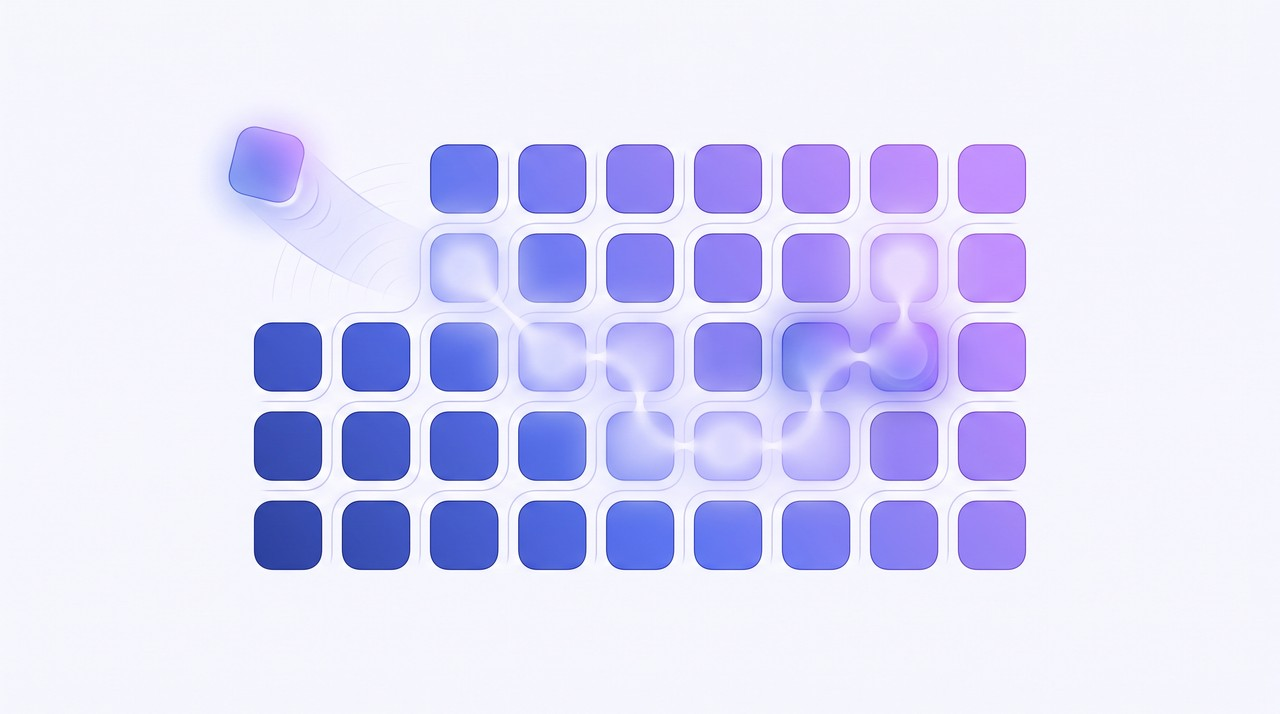
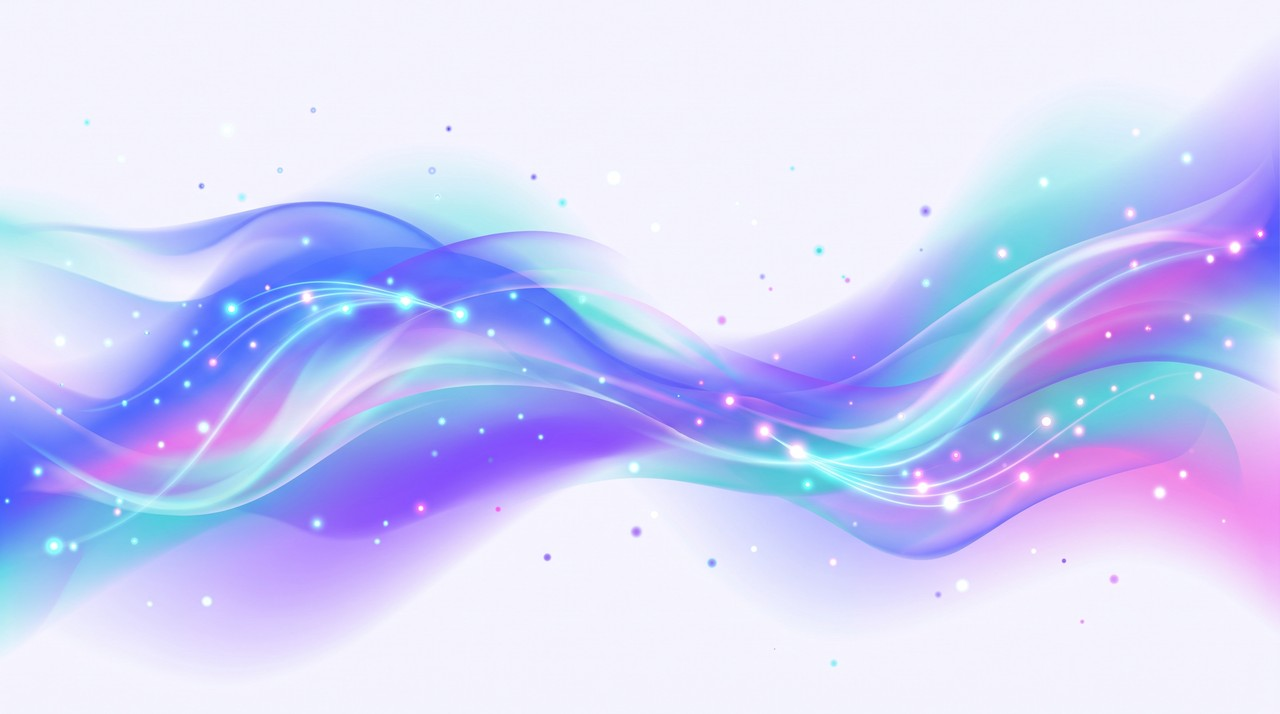
about: regenerate module illustrations — more abstract, richer multi-hue palette
Re-render the three module images as flowing aurora/liquid-light gradients
(blue/violet + cyan-teal + magenta-pink) instead of literal card/grid schematics,
per feedback that they were too literal and monochrome. Cache-bust img src v2.

diff --git a/about.html b/about.html
@@ -68,7 +68,7 @@
   <section class="section" style="padding-top:0">
     <div class="container">
       <div class="module-split">
-        <div class="module-diagram"><img src="assets/mod_director.jpg" alt="Director orchestrating a dynamic task stack in a self-correcting loop" loading="lazy" /></div>
+        <div class="module-diagram"><img src="assets/mod_director.jpg?v=2" alt="Director orchestrating a dynamic task stack in a self-correcting loop" loading="lazy" /></div>
       <div class="section-head">
         <div class="eyebrow" style="margin-bottom:12px">Module 1 · Planning</div>
         <h2 class="section-title">The <span class="gtext">Director</span> &amp; the dynamic task stack</h2>
@@ -155,7 +155,7 @@
   <section class="section" style="padding-top:0">
     <div class="container">
       <div class="module-split">
-        <div class="module-diagram"><img src="assets/mod_assistant.jpg" alt="The Assistant routing inputs and outputs through a shared workspace" loading="lazy" /></div>
+        <div class="module-diagram"><img src="assets/mod_assistant.jpg?v=2" alt="The Assistant routing inputs and outputs through a shared workspace" loading="lazy" /></div>
       <div class="section-head">
         <div class="eyebrow" style="margin-bottom:12px">Module 2 · Execution</div>
         <h2 class="section-title">The <span class="gtext">Assistant</span> &amp; the workspace</h2>
@@ -200,7 +200,7 @@
   <section class="section" style="padding-top:0">
     <div class="container">
       <div class="module-split">
-        <div class="module-diagram"><img src="assets/mod_agents.jpg" alt="A pluggable catalog of sub-agents with a subset selected into a chain" loading="lazy" /></div>
+        <div class="module-diagram"><img src="assets/mod_agents.jpg?v=2" alt="A pluggable catalog of sub-agents with a subset selected into a chain" loading="lazy" /></div>
       <div class="section-head">
         <div class="eyebrow" style="margin-bottom:12px">Module 3 · The crew</div>
         <h2 class="section-title">A catalog of <span class="gtext">sub-agents</span></h2>
